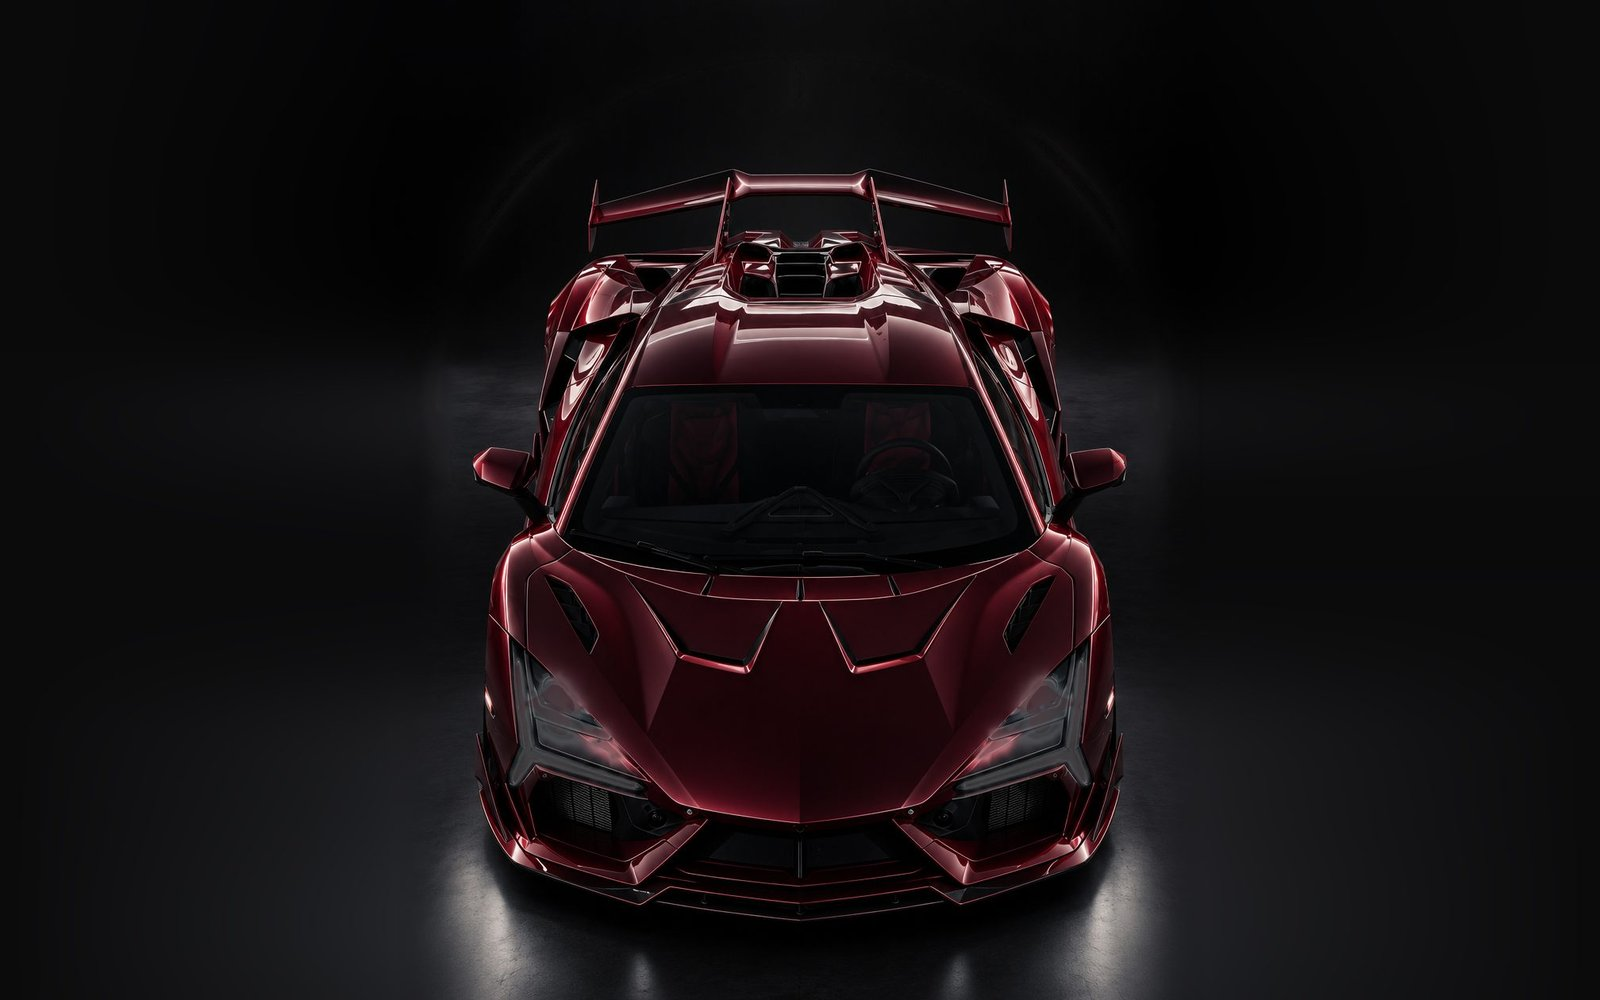
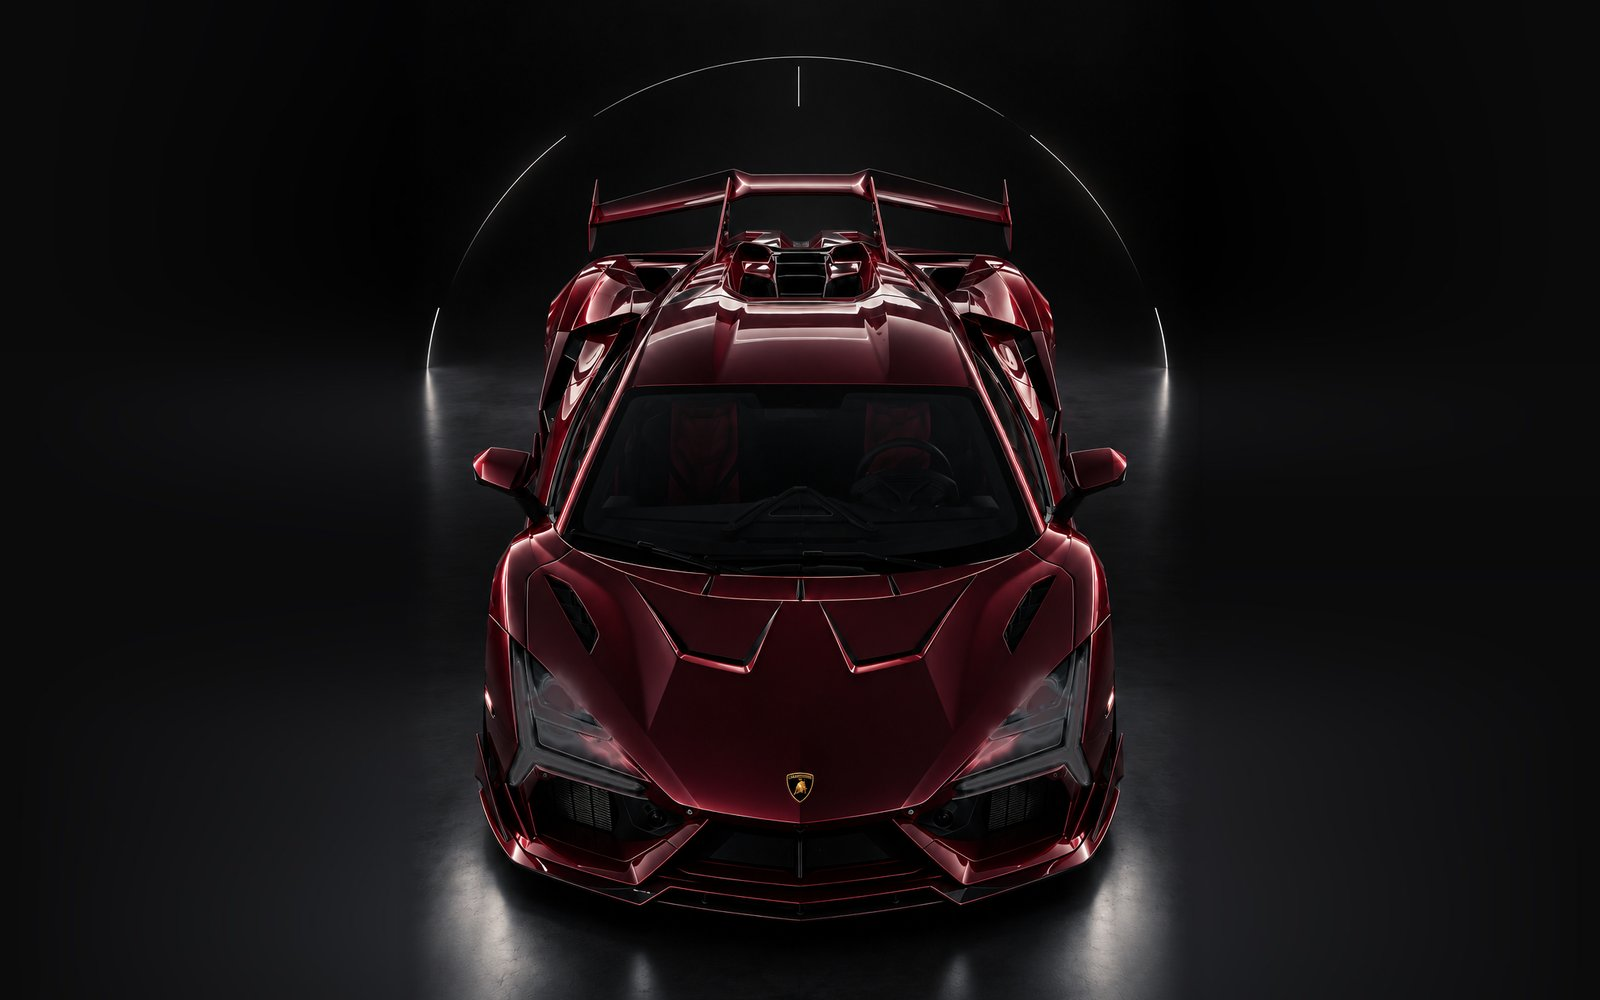
Beyond Factory: 'Beneath a Halo' render of the same car, cut and fitted exactly as before

diff --git a/src/data/site.ts b/src/data/site.ts
@@ -134,10 +134,12 @@ export const site = {
   },
 
   // Brand storytelling section (creative director, 2026-10-10; Alain Class
-  // reference). Vehicle: the ORIGINAL aggressive burgundy widebody supercar
-  // (restored 2026-10-15 at the creative director's request; source
-  // client-photos/philosophy/burgundy-supercar.png, crops from commit
-  // 79b7bcf). Crops: desktop 1.6:1, mobile 4:5, whole car wing-to-splitter.
+  // reference). Vehicle: the burgundy widebody supercar, "Beneath a Halo"
+  // render (creative director, 2026-10-15; client-photos/philosophy/
+  // burgundy-lamborghini-beneath-halo.png, the same render as the original
+  // with its halo ring kept), cut exactly as the original: mobile = x 8, y 40,
+  // 1008×1260; desktop = that cut centred in the original's extended 2016×1260
+  // frame. The section's drawn arc sits on the photo's own ring.
   philosophy: {
     headline: ['Beyond', 'Factory.'],
     // Creative director, 2026-10-15: three short beats, quieter, then the

diff --git a/DESIGN.md b/DESIGN.md
@@ -478,10 +478,12 @@ Beyond Factory → client reviews → Instagram → Visit Us → FAQ → footer.
   brand storytelling, not services. Centred: no eyebrow (removed by the
   creative director, 2026-10-10), the `philosophy-headline` in Michroma caps with a
   paper-to-graphite gradient fill (stacked on two lines below 1280px, one
-  line above), then the ORIGINAL aggressive burgundy widebody supercar
-  (restored 2026-10-15 at the creative director's request: the 10-11 render,
-  large wing, bonnet scoop, bracket headlights; source
-  `client-photos/philosophy/burgundy-supercar.png`, crops from commit 79b7bcf),
+  line above), then the aggressive burgundy widebody supercar, "Beneath a
+  Halo" render (2026-10-15: the same render as the original 10-11 car, with
+  its own halo ring kept; `client-photos/philosophy/burgundy-lamborghini-beneath-halo.png`,
+  cut exactly as the original: mobile x 8 / y 40 / 1008×1260, desktop that
+  cut centred in the original's extended 2016×1260 frame; the drawn arc sits
+  on the photo's ring),
   1.6:1 frame on md+, 4:5 on phones, full size (no shrink), whose edges and lit
   floor melt into the page black through a CSS mask (radial 62% / 48% md+ plus
   a bottom fade).
